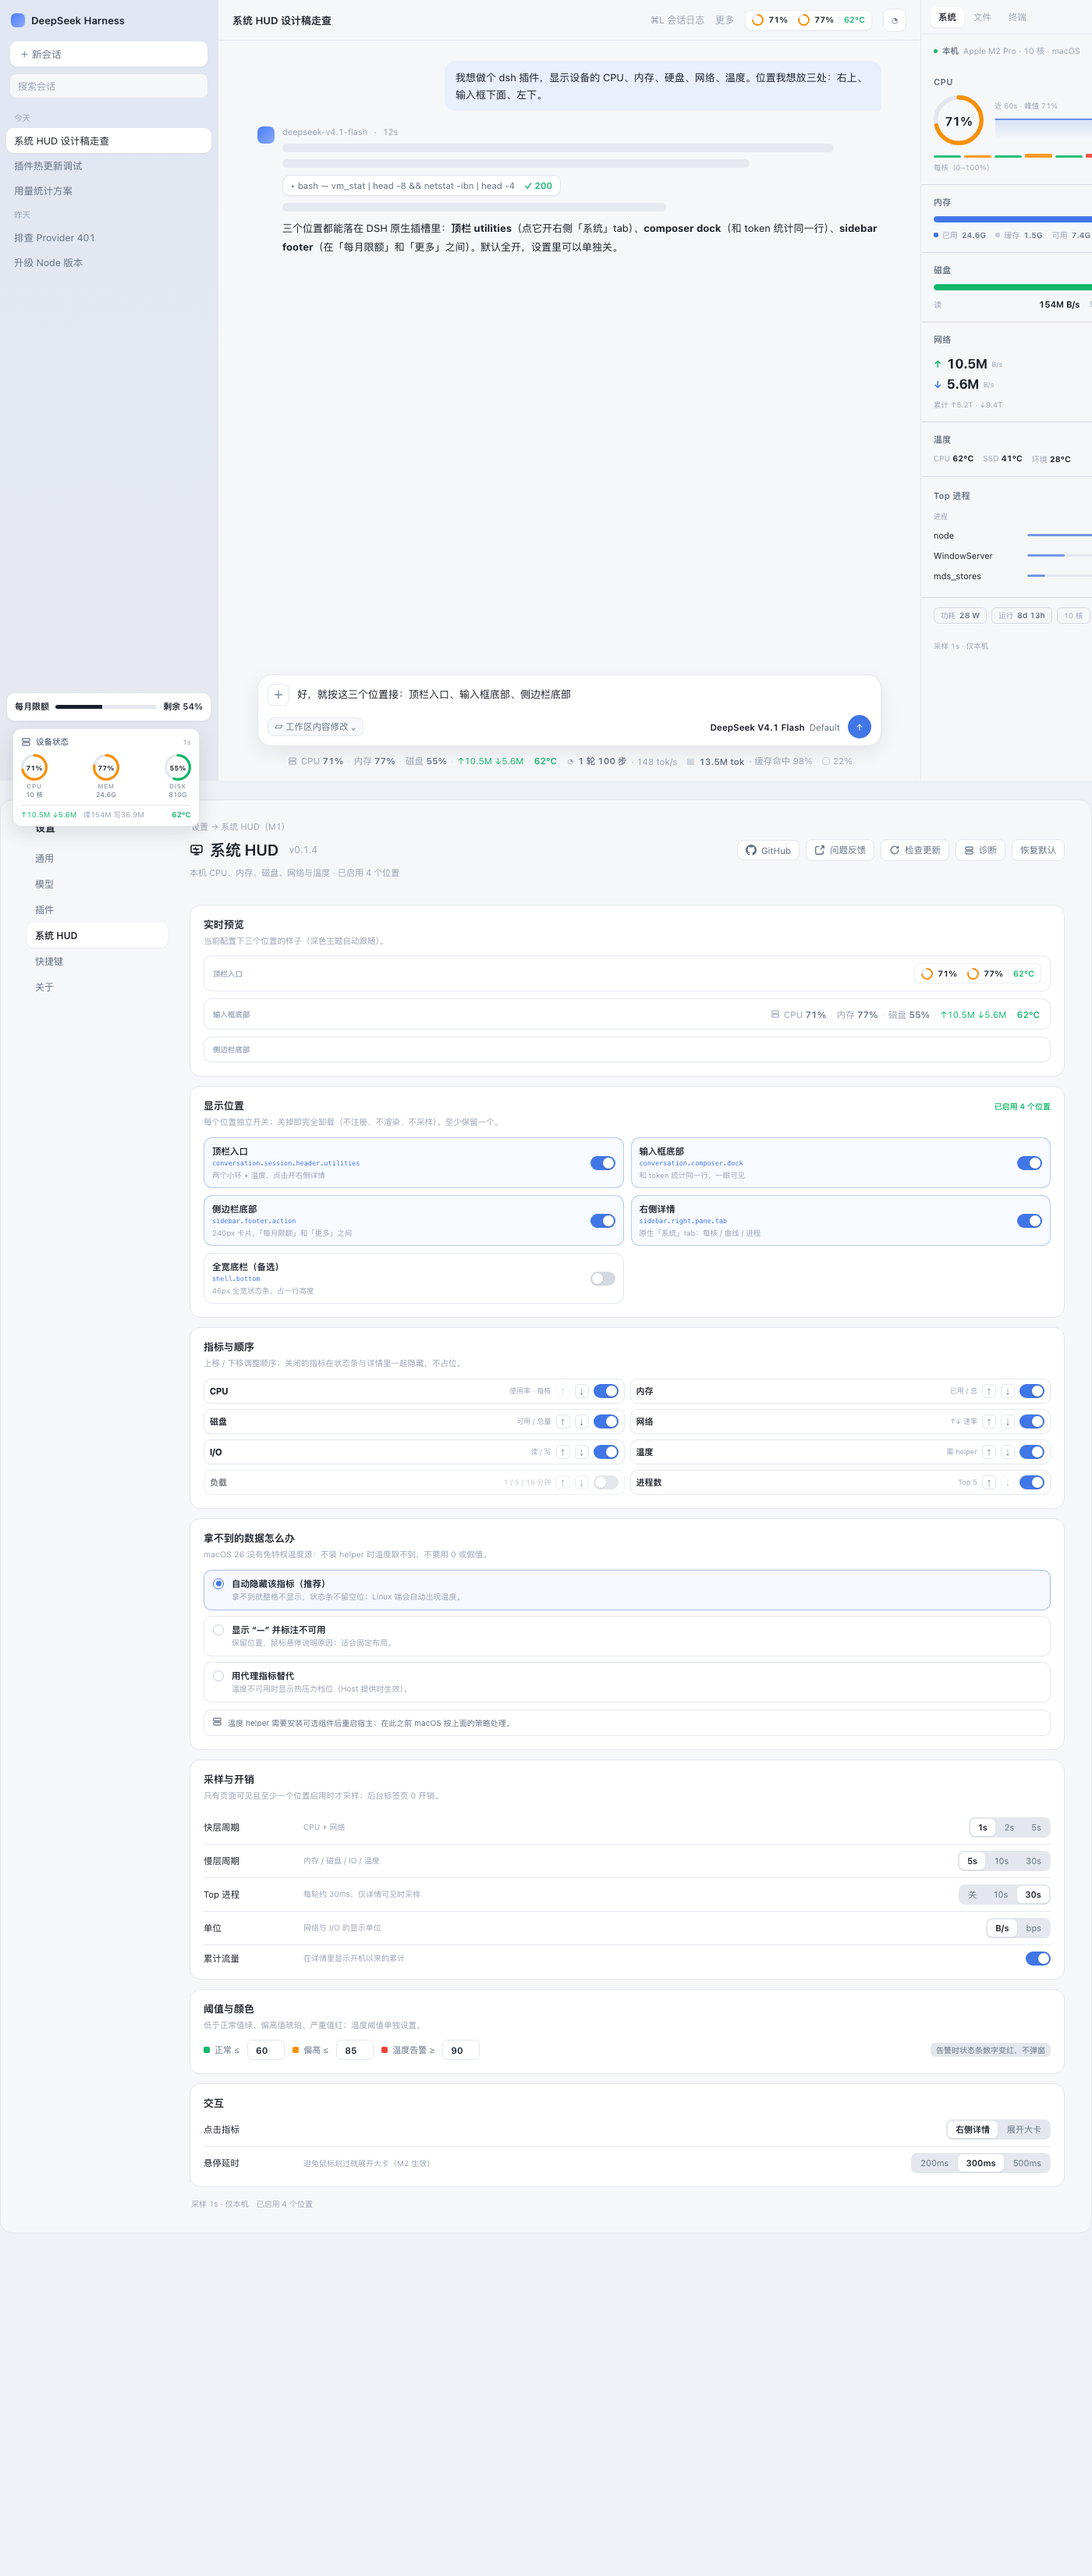
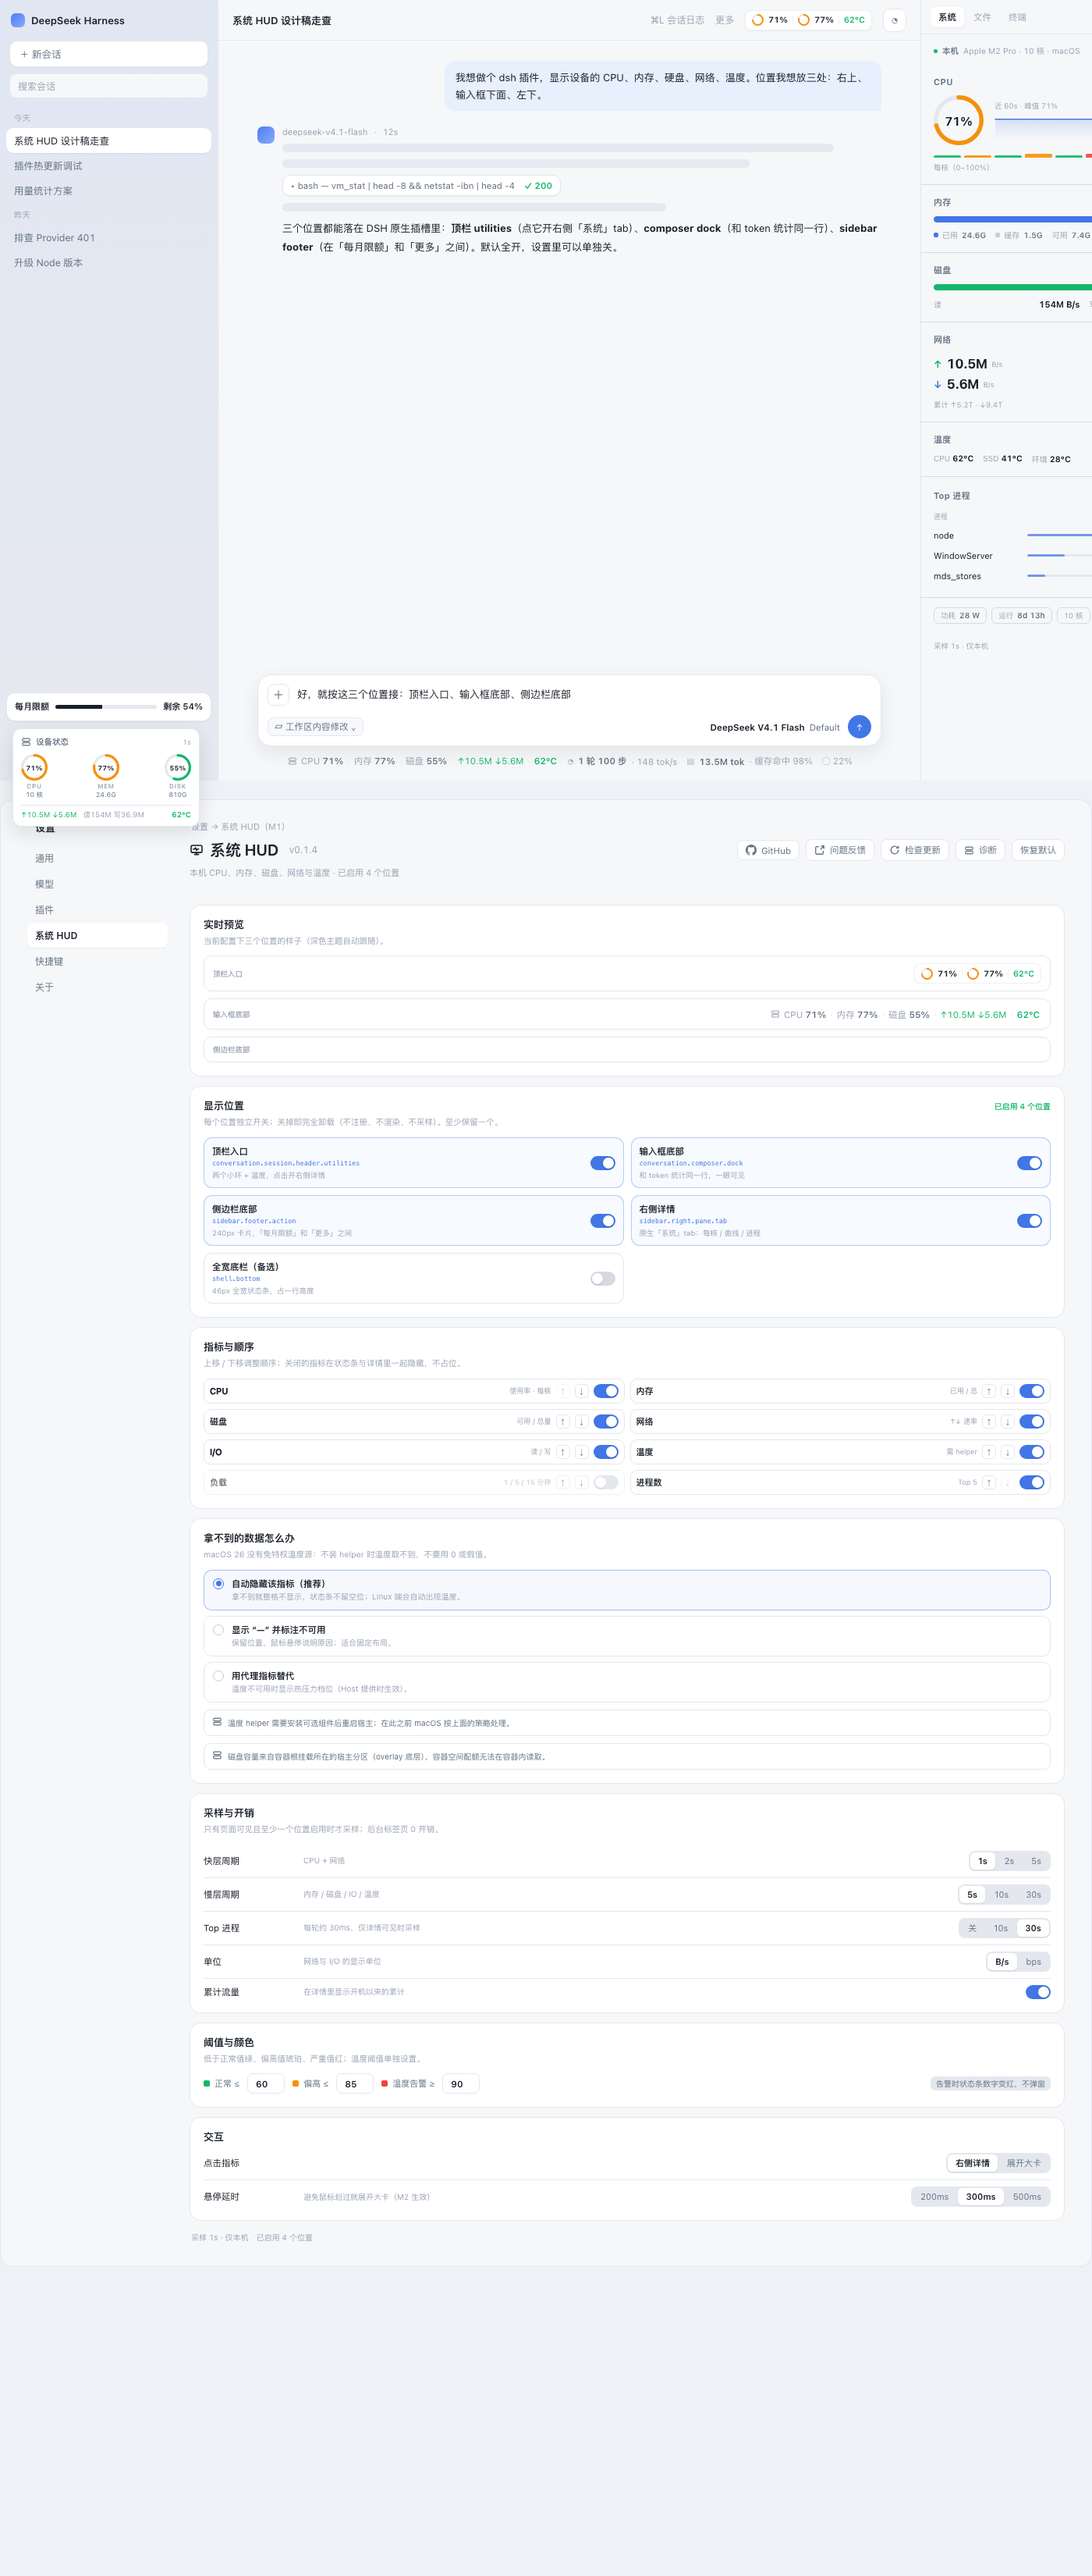
fix(panel): 修复「容器 容器」重复；磁盘恒标「宿主分区 · 设备 → 挂载点」并加设置页口径说明

Changed region(s): [[0.1843, 0.6867, 0.3993, 0.8739], [0.8293, 0.6867, 0.9829, 0.8427]]

diff --git a/lib/client.js b/lib/client.js
@@ -186,11 +186,12 @@ window.__ModuleLoader__.load({
       hostScope: '宿主',
       containerScope: '容器',
       memoryHostTotal: '宿主 {v}',
-      containerCores: '容器 {n} 核',
+      containerCores: '{n} 核',
       hostSoc: '宿主 SoC',
       hostAcpi: '宿主 ACPI',
       hostCores: '宿主 {n} 核',
       hostPartition: '宿主分区',
+      diskScopeNote: '磁盘容量来自容器根挂载所在的宿主分区（overlay 底层），容器空间配额无法在容器内读取。',
       peak: '峰值 {v}',
       coreRange: '每核（0–100%）',
       highest: '最高 {v}',
@@ -375,11 +376,12 @@ window.__ModuleLoader__.load({
       hostScope: 'Host',
       containerScope: 'Container',
       memoryHostTotal: 'Host {v}',
-      containerCores: 'Container {n} cores',
+      containerCores: '{n} cores',
       hostSoc: 'Host SoC',
       hostAcpi: 'Host ACPI',
       hostCores: 'Host {n} cores',
       hostPartition: 'Host partition',
+      diskScopeNote: 'Disk capacity comes from the host partition backing the container rootfs (overlay); container space quota is not readable inside the container.',
       peak: 'Peak {v}',
       coreRange: 'Per core (0–100%)',
       highest: 'Max {v}',
@@ -989,6 +991,7 @@ window.__ModuleLoader__.load({
 .huds-pane .huds-memlegend em{width:6px;height:6px;border-radius:2px;display:inline-block;font-style:normal}
 .huds-pane .huds-tone-warn{color:var(--dsw-alias-state-warn-primary,#f79009)}
 .huds-pane .huds-tone-warn b{color:var(--dsw-alias-state-warn-primary,#f79009)}
+.huds-pane .huds-diskcap{margin-top:7px;font-size:9.5px;color:var(--dsw-alias-label-tertiary,#98a2b3);font-variant-numeric:tabular-nums}
 .huds-pane .huds-iorow{display:grid;grid-template-columns:1fr 1fr;gap:12px;margin-top:11px}
 .huds-pane .huds-io{display:flex;align-items:baseline;gap:8px;font-size:10px;color:var(--dsw-alias-label-tertiary,#98a2b3)}
 .huds-pane .huds-io b{margin-left:auto;font-size:11px;font-weight:650;color:var(--dsw-alias-label-primary,#191f28);font-variant-numeric:tabular-nums}
@@ -1863,13 +1866,17 @@ window.__ModuleLoader__.load({
           title: t('disk'),
           stale: staleOf(snapshot, 'disk', cfg, t),
           right: h('span', { className: 'huds-secright' },
-            disk.scope === 'mount' && host.platform === 'linux'
+            host.platform === 'linux'
               ? h('span', { className: 'huds-badge mute', title: [disk.source, disk.mount].filter(Boolean).join(' → ') }, t('hostPartition'))
               : null,
             remain == null ? null : h('span', { className: 'huds-badge ' + severity(pct, cfg) }, t('available') + ' ' + remain + '%'),
             h('span', { className: 'huds-secval' }, free, h('i', null, ' / ' + total)))
         },
           h('div', { className: 'huds-bar' }, h('i', { style: { width: (pct == null ? 0 : pct) + '%', background: toneVar(severity(pct == null ? 0 : pct, cfg)) } })),
+          host.platform === 'linux'
+            ? h('div', { className: 'huds-diskcap' }, t('hostPartition'),
+              [disk.source, disk.mount].filter(Boolean).length ? ' · ' + [disk.source, disk.mount].filter(Boolean).join(' → ') : '')
+            : null,
           shown('io')
             ? h('div', { className: 'huds-iorow' },
               h('span', { className: 'huds-io' }, t('read'), h('b', null, rateText(disk.readBytesPerSec, units))),
@@ -2262,7 +2269,8 @@ window.__ModuleLoader__.load({
           h('div', { className: 'huds-metrics' }, metricRows)),
         h(SettingsCard, { title: t('groupUnavailable'), desc: t('groupUnavailableDesc') },
           h('div', { className: 'huds-policies' }, policyRows),
-          h('div', { className: 'huds-note' }, h(IconServer, { size: 13 }), h('span', null, t('thermalNote')))),
+          h('div', { className: 'huds-note' }, h(IconServer, { size: 13 }), h('span', null, t('thermalNote'))),
+          h('div', { className: 'huds-note' }, h(IconServer, { size: 13 }), h('span', null, t('diskScopeNote')))),
         h(SettingsCard, { title: t('groupSampling'), desc: t('groupSamplingDesc') },
           h('div', null,
             h('div', { className: 'huds-kvrow' }, h('span', { className: 'huds-kn' }, t('fastPeriod')), h('span', { className: 'huds-kd' }, t('fastPeriodDesc')), periodSeg(cfg.fastMs, fastItems, (value) => save({ fastMs: value }))),

diff --git a/CHANGELOG.md b/CHANGELOG.md
@@ -1,5 +1,13 @@
 # Changelog
 
+## 0.2.1 — 2026-10-26
+
+### 修复 / 澄清
+
+- CPU 行「容器 容器 4 核」重复：`containerCores` 文案改为 `{n} 核`，与「容器」前缀组合为「容器 4 核 · 宿主 128 核」。
+- 磁盘在 Linux 上始终显示「宿主分区」徽标，并在容量条下方给出 `宿主分区 · 设备 → 挂载点`（如 `overlay → /`）；设置页补充说明：容器空间配额无法在容器内读取，容量来自 overlay 底层宿主分区。
+- 云手机更新后需**重启 dsh 宿主**，host 半区新增的 `disk.scope/mount/source` 与温度/内存口径字段才会生效。
+
 ## 0.2.0 — 2026-10-26
 
 ### 云手机口径确认与标注完善
